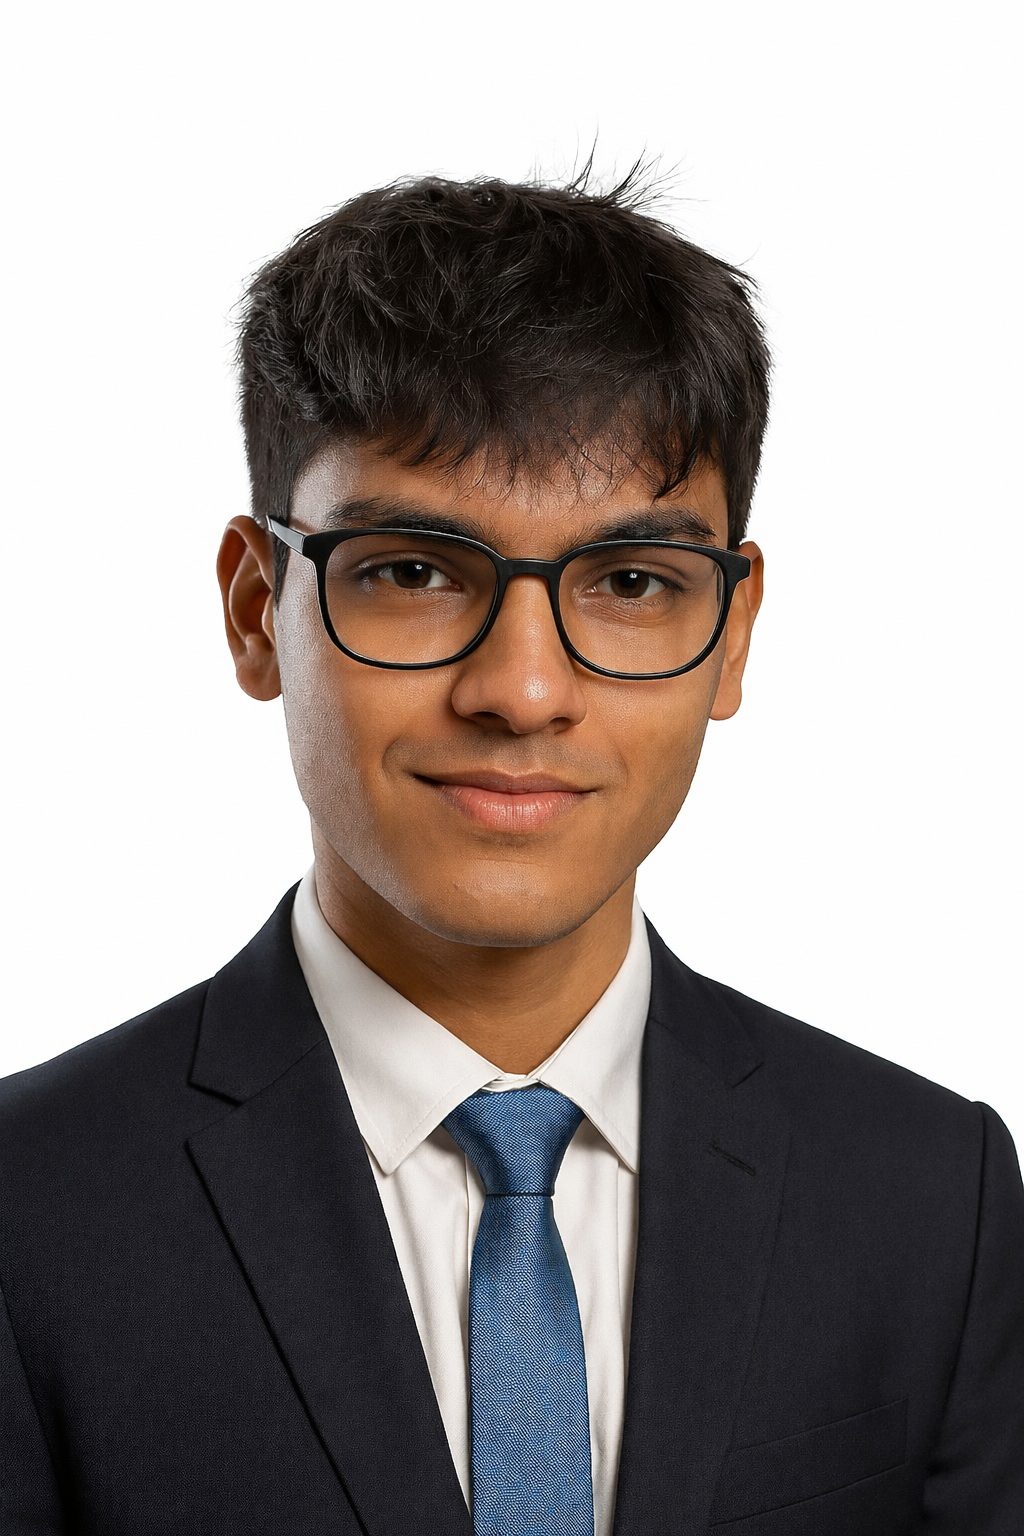
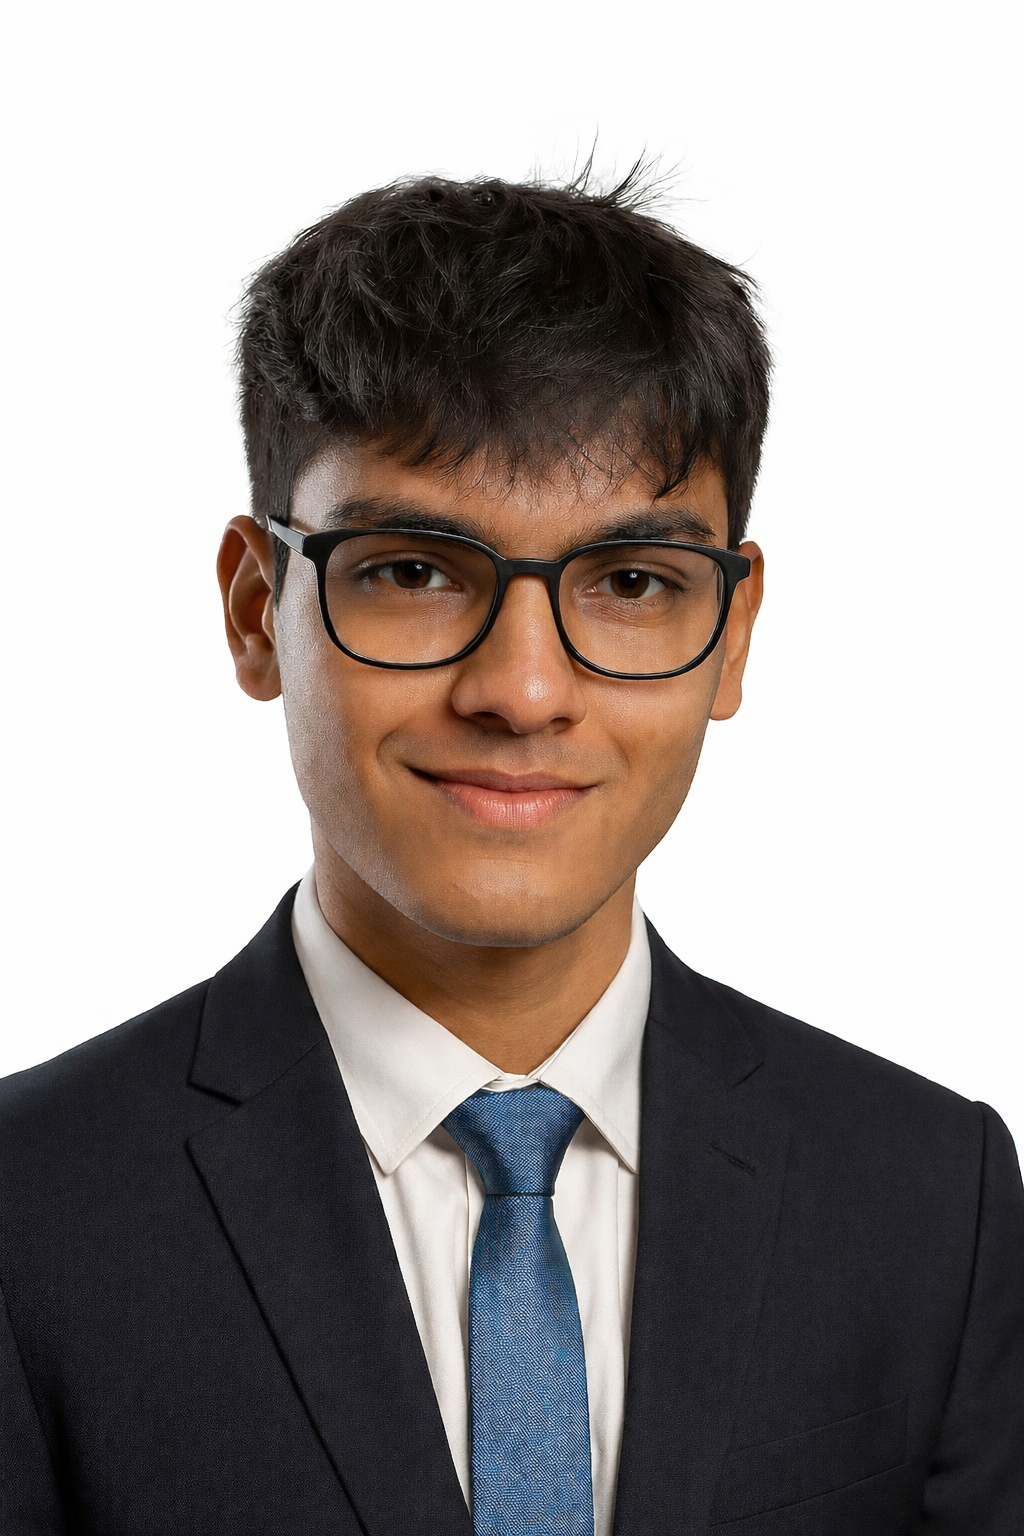
fix(vn): vulnerability fixed.

Changed region(s): [[0.4375, 0.6875, 0.5938, 1.0], [0.3125, 0.4688, 0.5938, 0.5625], [0.5938, 0.4688, 0.625, 0.5]]

diff --git a/apps/web/src/components/Reviews.tsx b/apps/web/src/components/Reviews.tsx
@@ -17,10 +17,10 @@ const reviews = [
     img: "/manisha.png",
   },
   {
-    name: "Aashwin Kumar",
+    name: "Aman Kumar",
     username: "Rancho-Labs @IIT-Delhi",
     body: "Aryan performed exceptionally during his internship and his ability to simplify advance topics through hands-on projects was commendable.",
-    img: "/aashwin.png",
+    img: "/aman.png",
   },
   {
     name: "Dr. Deepa Nath",
